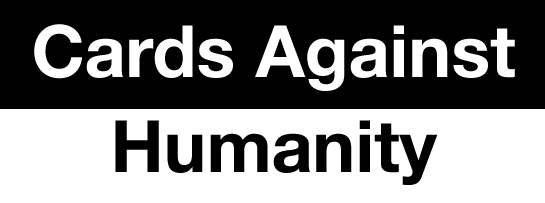
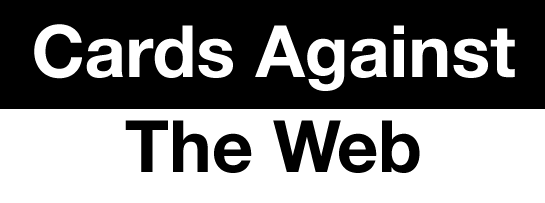
name change: the web

Changed region(s): [[0.1872, 0.5911, 0.811, 0.9163]]

diff --git a/web/public/css/style.css b/web/public/css/style.css
@@ -7,8 +7,9 @@
 }
 
 body {
-  padding: 50px;
-  font: 14px "Lucida Grande", Helvetica, Arial, sans-serif;
+  width: 600px;
+  padding: 0px;
+  font: 18px "Helvetica Neue", Helvetica, Arial, sans-serif;
 	display:block;
 	margin-left:auto;
 	margin-right:auto;
@@ -35,7 +36,6 @@ label {
 /*	border:thin solid orange;*/
 	font:20px Helvetica, Arial, sans-serif;
 	text-align:center;
-	display:block;
 	margin-left:auto;
 	margin-right:auto;
 }
@@ -75,14 +75,20 @@ input.newuser#username {
 	text-align:center;
 }
 
+footer {
+  font-size: 0.7em;
+  text-align: center;
+}
 
 
 /* styles for cards */
 
 #card-container {
+    font-size: 16px;
     width: 640px;
     height: 712px;
     margin: 10px auto;
+    padding: 0;
     overflow: hidden;
     clear: both;
 }
